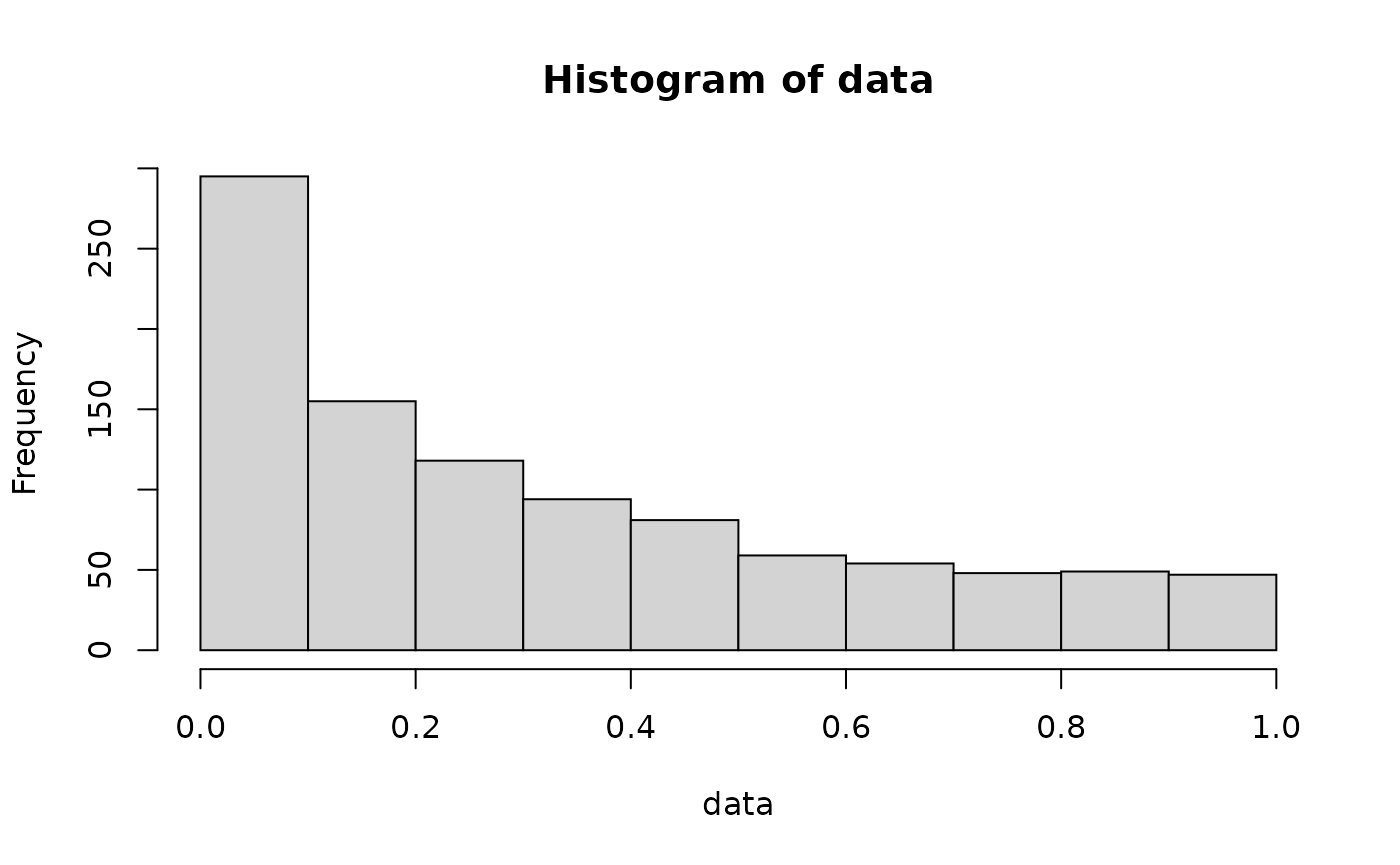
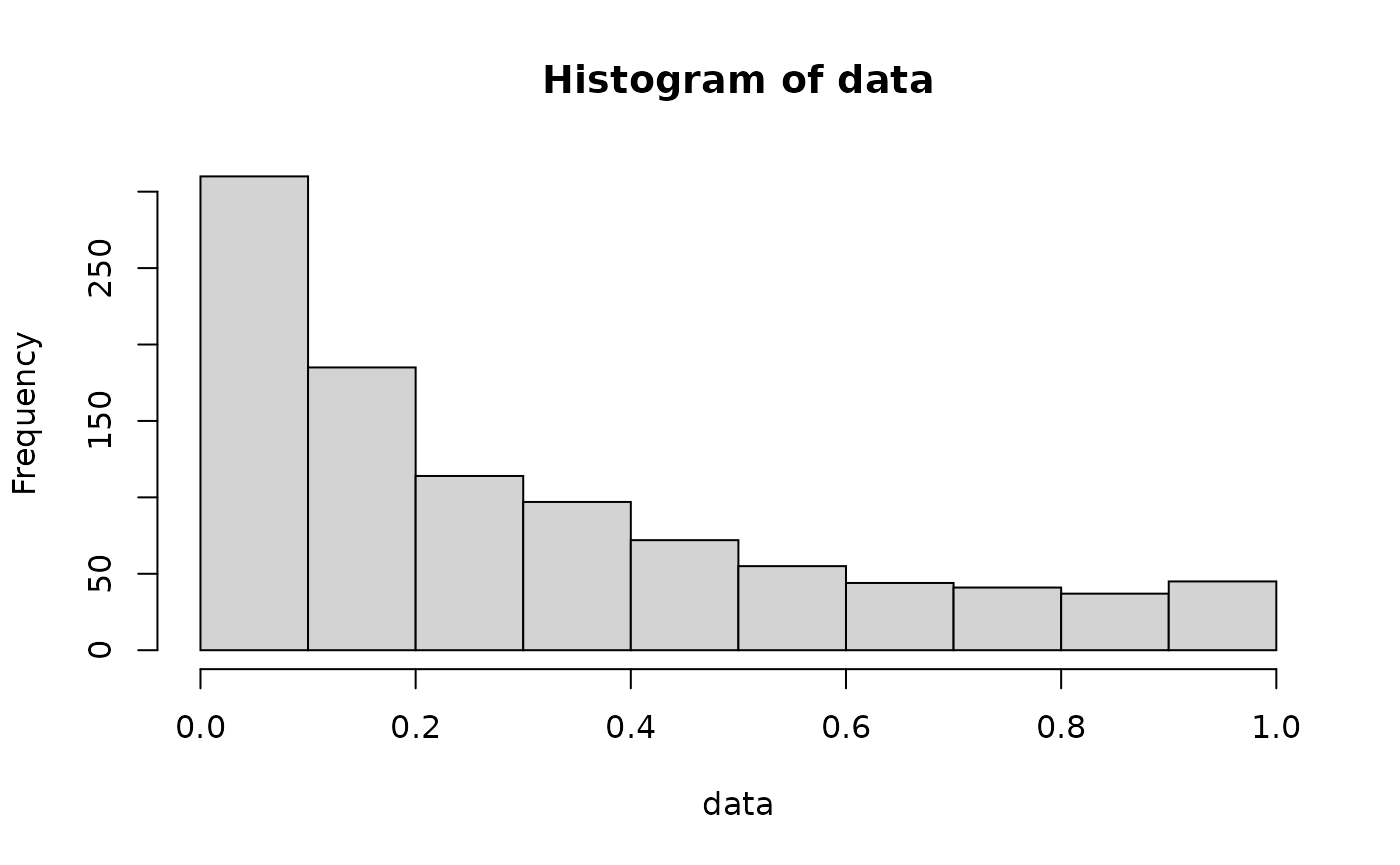
Built site for bradfordr: 0.0.0.9000@8d95172

diff --git a/articles/rng-bradford-dist.html b/articles/rng-bradford-dist.html
@@ -134,7 +134,7 @@ x = F^{-1}(u;c) = \frac{(1+c)^u - 1}{c}
 <span class="va">data</span> <span class="op">&lt;-</span> <span class="fu"><a href="../reference/rbradford.html">rbradford</a></span><span class="op">(</span><span class="fl">1000</span>, c<span class="op">=</span><span class="fl">10</span><span class="op">)</span>
 
 <span class="fu"><a href="https://rdrr.io/r/utils/head.html">head</a></span><span class="op">(</span><span class="va">data</span><span class="op">)</span>
-<span class="co">#&gt; [1] 0.058327000 0.415338530 0.982349926 0.575176788 0.007270222 0.005645171</span></code></pre></div>
+<span class="co">#&gt; [1] 0.20074538 0.06206324 0.21422672 0.59010489 0.13790269 0.36023662</span></code></pre></div>
 <p>We can easily plot this data to understand how it behaves:</p>
 <div class="sourceCode" id="cb3"><pre class="downlit sourceCode r">
 <code class="sourceCode R">
